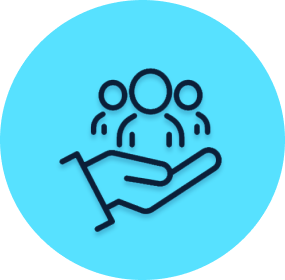
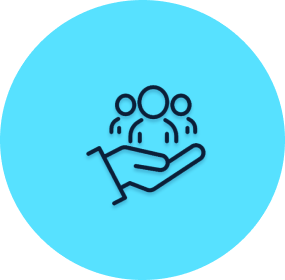
Components and services for the issues, UI fix in the index

Changed region(s): [[0.1965, 0.2286, 0.786, 0.8571]]

diff --git a/src/app/modules/worko/components/index/index.component.scss b/src/app/modules/worko/components/index/index.component.scss
@@ -165,7 +165,7 @@
     }
 }
 
-// companies section animation:
+// ----------------companies section animation-------------------
 
 @keyframes slide{
     from {
@@ -184,16 +184,17 @@
 .slide-container{
     display: flex;
     width: 252%;
+    margin-top: 9rem;
 }
 
-.slide-container::before {
-    position: absolute;
-    top: 0;
-    left: 0;
-    width: 200px;
-    height: 100%;
-    background: linear-gradient(to left, rba(255, 255, 255, 0), #fff);
-}
+// .slide-container::before {
+//     position: absolute;
+//     top: 0;
+//     left: 170%;
+//     width: 200px;
+//     height: 100%;
+//     background: linear-gradient(to left, rba(255, 255, 255, 0), #fff);
+// }
 .company-slides{
     // display: inline-block !important;
     // width: 100% !important;
@@ -206,9 +207,7 @@
     animation-play-state: paused;
 }
 
-.slide-container{
-
-}
+// -------------End of css for company slides animation-------------
 
 .stats-section {
     // justify-content: space-between;
@@ -227,7 +226,7 @@
         padding-left: 19%;
         position: absolute;
         padding-top: 3rem;
-        margin-top: 1.5rem;
+        margin-top: 1rem;
     }
     .line-right2{
         margin-top: -0.5rem;
@@ -1902,8 +1901,7 @@
         left: 7.5%;
         margin-top: 5px;
         img{
-            width: calc(225px + 5vw);
-            width: calc(172px + 8vw);
+            width: calc(168px + 8vw);
         }
     }
 

diff --git a/src/app/modules/worko/components/home-corporate/home-corporate.component.html b/src/app/modules/worko/components/home-corporate/home-corporate.component.html
@@ -318,8 +318,7 @@
                         has been the industry's standard dummy text ever since the 1500s
                     </div> -->
                     <div class="content-paragraph para">
-                        Lorem Ipsum is simply dummy text of the printing and typesetting industry. Lorem Ipsum 
-                        has been 
+                        Let Us Help You Find the Perfect Talent for Your Team
                     </div>
                 </div>
                 <form  (ngSubmit)="corporate.form.valid && createCorporate(form)" #corporate="ngForm" novalidate>
@@ -384,7 +383,7 @@
                     <a href="" class="resend">Resend</a>
                 </div>
                         
-                       <textarea class="input input-area" type="text" placeholder="Type here*" name="description" id="description"placeholder="What you will bring on the table*" #desc="ngModel" 
+                       <textarea class="input input-area" type="text" placeholder="Type here*" name="description" id="description" placeholder="How we can assist you in finding the perfect candidates for your team." #desc="ngModel" 
                         [(ngModel)]="corporateForm.description" [ngClass]="{ 'is-invalid': desc.invalid && (desc.dirty || desc.touched) }"
                         required minlength="5"></textarea>
                         

diff --git a/src/app/modules/admin-dashboard/admin-dashboard.module.ts b/src/app/modules/admin-dashboard/admin-dashboard.module.ts
@@ -3,9 +3,10 @@ import { CommonModule } from '@angular/common';
 // import { CandidateComponent } from './candidate/candidate.component';
 import { RouterModule, Routes } from '@angular/router';
 import { AdminDashboardComponent } from './admin-dashboard.component';
-import { AcandidateComponent } from './acandidate/acandidate.component';
+import { AcandidateComponent } from './components/acandidate/acandidate.component';
 import { FormsModule } from '@angular/forms';
-import { AdashboardComponent } from './adashboard/adashboard.component';
+import { AdashboardComponent } from './components/adashboard/adashboard.component';
+import { AissuesComponent } from './components/aissues/aissues.component';
 
 
 export const routes: Routes = [
@@ -32,7 +33,8 @@ export const routes: Routes = [
 
 @NgModule({
   declarations: [
-    AcandidateComponent
+    AcandidateComponent,
+    AissuesComponent
   ],
   imports: [
     CommonModule,

diff --git a/src/app/modules/worko/components/company-listing/company-listing.component.html b/src/app/modules/worko/components/company-listing/company-listing.component.html
@@ -54,10 +54,9 @@
           </option> -->
           <select class=" selector form-select" name="industryType" id="industryType"
           [(ngModel)]="filterData.industryType" (ngModelChange)="onIndustryTypeChange($event)">
-          <option value="">Select industryType</option>
+          <option value="">Select Industry Type</option>
           <option *ngFor="let item of industryTypeOptions" [value]="item.value">{{ item.name }}</option>
         </select>
-
 
         </div>
         <div class="me-3 ml-sm-2 p-1 d-flex filter">
@@ -67,7 +66,7 @@
             <option *ngFor="let item of teamSizeOptions" [value]="item.value">{{ item.name }}</option>
           </select>
         </div>
-     
+      
       </div>
     </div>
     <div *ngIf="companyList.length === 0" class="row mt-4">

diff --git a/src/app/modules/admin-dashboard/components/aissues/aissues.component.spec.ts b/src/app/modules/admin-dashboard/components/aissues/aissues.component.spec.ts
@@ -1,0 +1,21 @@
+import { ComponentFixture, TestBed } from '@angular/core/testing';
+
+import { AissuesComponent } from './aissues.component';
+
+describe('AissuesComponent', () => {
+  let component: AissuesComponent;
+  let fixture: ComponentFixture<AissuesComponent>;
+
+  beforeEach(() => {
+    TestBed.configureTestingModule({
+      declarations: [AissuesComponent]
+    });
+    fixture = TestBed.createComponent(AissuesComponent);
+    component = fixture.componentInstance;
+    fixture.detectChanges();
+  });
+
+  it('should create', () => {
+    expect(component).toBeTruthy();
+  });
+});

diff --git a/src/app/modules/worko/components/index/index.component.html b/src/app/modules/worko/components/index/index.component.html
@@ -427,6 +427,9 @@
                 <div class="para">Alongside Employees At Top Companies</div>
             </div>
             <div class="slide-container">
+                <div class="companies-gradient">
+                    
+                </div>
                 <div class="company-slides d-flex">
                     <!--<div class="company company1">
                         <img src="/assets/index-images-KA/reliance.png" class="company-img" alt="">

diff --git a/src/app/modules/admin-dashboard/services/acandidate.service.spec.ts b/src/app/modules/admin-dashboard/services/acandidate.service.spec.ts
@@ -1,0 +1,16 @@
+import { TestBed } from '@angular/core/testing';
+
+import { AcandidateService } from './acandidate.service';
+
+describe('AcandidateService', () => {
+  let service: AcandidateService;
+
+  beforeEach(() => {
+    TestBed.configureTestingModule({});
+    service = TestBed.inject(AcandidateService);
+  });
+
+  it('should be created', () => {
+    expect(service).toBeTruthy();
+  });
+});

diff --git a/src/app/modules/admin-dashboard/services/aissues.service.spec.ts b/src/app/modules/admin-dashboard/services/aissues.service.spec.ts
@@ -1,0 +1,16 @@
+import { TestBed } from '@angular/core/testing';
+
+import { AissuesService } from './aissues.service';
+
+describe('AissuesService', () => {
+  let service: AissuesService;
+
+  beforeEach(() => {
+    TestBed.configureTestingModule({});
+    service = TestBed.inject(AissuesService);
+  });
+
+  it('should be created', () => {
+    expect(service).toBeTruthy();
+  });
+});

diff --git a/src/app/modules/worko/worko.module.ts b/src/app/modules/worko/worko.module.ts
@@ -65,10 +65,10 @@ export const routes: Routes = [
     path: '',
     component: WorkoComponent,
     children: [
-      // {
-      //   path: 'index',
-      //   component: HomeComponent
-      // },
+      {
+        path: 'index',
+        component: HomeComponent
+      },
       {
         path: 'contact',
         component: ContactComponent

diff --git a/src/app/modules/admin-dashboard/components/aissues/aissues.component.ts b/src/app/modules/admin-dashboard/components/aissues/aissues.component.ts
@@ -1,0 +1,10 @@
+import { Component } from '@angular/core';
+
+@Component({
+  selector: 'app-aissues',
+  templateUrl: './aissues.component.html',
+  styleUrls: ['./aissues.component.scss']
+})
+export class AissuesComponent {
+
+}

diff --git a/src/styles.scss b/src/styles.scss
@@ -2498,7 +2498,7 @@ footer {
 
     .company-slides {
         background-color: #fff;
-        margin-top: 9rem;
+        // margin-top: 9rem;
         height: calc(7vw + 40px);
         width: 126%;
         margin-left: -9%;

diff --git a/src/app/modules/worko/components/home-corporate/home-corporate.component.scss b/src/app/modules/worko/components/home-corporate/home-corporate.component.scss
@@ -374,6 +374,7 @@
                 .content{
                     font-size: calc(1.3vw + 5px);
                     width: 95%;
+                    padding-left: 0;
                 }
             }
         }
